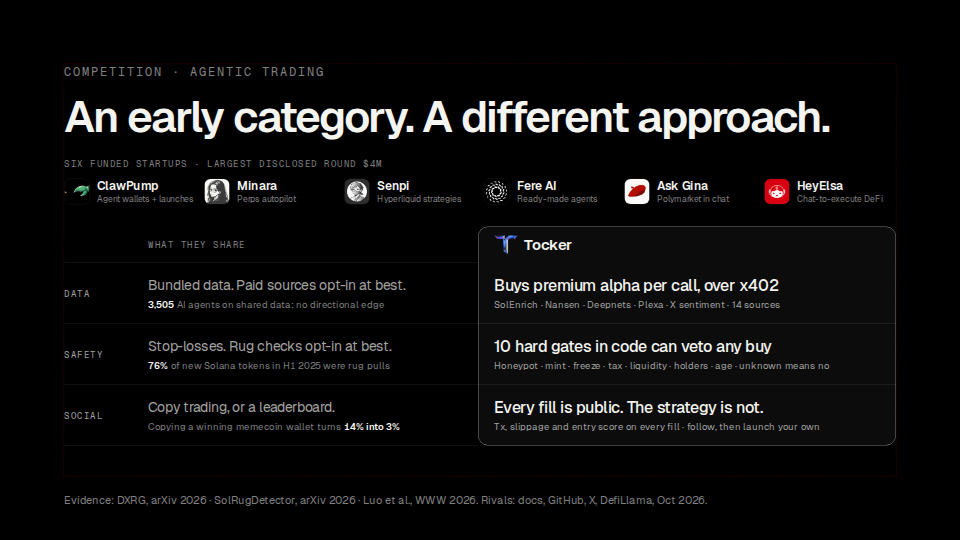
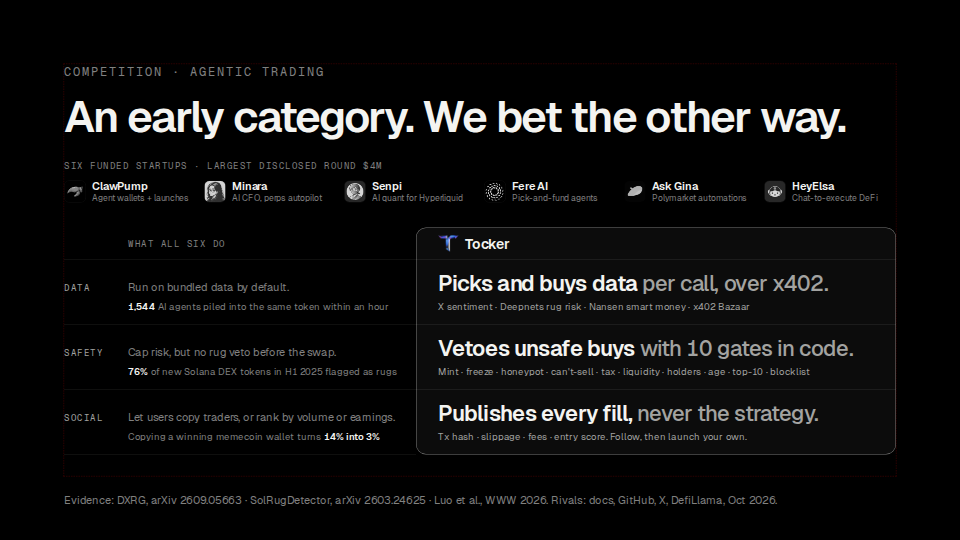
docs(pitch): competition slide polished by copy, design and critic passes
Verb-led Tocker lines (picks and buys data, vetoes unsafe buys, publishes
every fill), a 'what all six do' column with dated evidence, greyscale
rival logos so Tocker's mark is the only colour, and the full ten gates
named. Critic fixes: no 'unknown means no', no 'rank them' (Tocker ranks
too), 'no rug veto before the swap' (Fere floors), DXRG herding stat.

Claude-Session: https://claude.ai/code/session_01C63X7bmiYFRUvieQLSha7b

diff --git a/docs/pitch/deck/build_competition.py b/docs/pitch/deck/build_competition.py
@@ -1,48 +1,53 @@
-"""Tocker competition slide, minimal: the field in one strip, then what they share vs what Tocker does.
-Run: python3 -I gen.py [out.html]  ->  refine/design/cmp10.html
-All copy lives in DATA. Every "field" line must hold for all six rivals (research/26-competitors-deep/README.md).
+"""Tocker competition slide, variant B ("accentuate"): the field in one tight strip, then three bands where
+what the rivals share is set quiet on the left and Tocker's difference is the hero on the right.
+Run: python3 -I gen.py [out.html]  ->  refine/design/cmp-m.html
+All copy lives in DATA. Every "they share" line must hold for all six rivals (research/26-competitors-deep/README.md).
 """
 import html
 import sys
 
 OUT = sys.argv[1] if len(sys.argv) > 1 else \
-    "/tmp/claude-0/-home-user-tocker/2b3bef34-45cf-5fd0-a239-6cda5647963e/scratchpad/refine/design/cmp10.html"
+    "/tmp/claude-0/-home-user-tocker/2b3bef34-45cf-5fd0-a239-6cda5647963e/scratchpad/refine/design/cmp-m.html"
 
 DATA = {
     "eyebrow": "Competition · Agentic trading",
-    "headline": "An early category. A different approach.",
+    # Founder's original, kept as an option: "An early category. A different approach."
+    "headline": "An early category. We bet the other way.",
     "field_label": "Six funded startups · largest disclosed round $4M",
     "field": [
-        ("ClawPump", "/_blob/606b63ec1779ee82e35148ef101e17ed", "Agent wallets + launches"),
-        ("Minara", "/_blob/03acbe489e6ea92d8d145a181c9dfa84", "Perps autopilot"),
-        ("Senpi", "/_blob/ca68c6e24dedbf9baa8b126a87b00a6b", "Hyperliquid strategies"),
-        ("Fere AI", "/_blob/3f187fc91f8eb98029cad57c307f6fec", "Ready-made agents"),
-        ("Ask Gina", "/_blob/dea59d96bd66d04b62a83f5f399fbaa9", "Polymarket in chat"),
+        ("ClawPump", "/_blob/0bc2d38756d41a19b0f4b42cae97ee97", "Agent wallets + launches"),
+        ("Minara", "/_blob/03acbe489e6ea92d8d145a181c9dfa84", "AI CFO, perps autopilot"),
+        ("Senpi", "/_blob/ca68c6e24dedbf9baa8b126a87b00a6b", "AI quant for Hyperliquid"),
+        ("Fere AI", "/_blob/3f187fc91f8eb98029cad57c307f6fec", "Pick-and-fund agents"),
+        ("Ask Gina", "/_blob/dea59d96bd66d04b62a83f5f399fbaa9", "Polymarket automations", "invert"),
         ("HeyElsa", "/_blob/392c3ee86a193e8a1796ae2fe53d5a5b", "Chat-to-execute DeFi"),
     ],
-    "they_title": "What they share",
+    "they_title": "What all six do",
     "tocker_logo": "/_blob/41da4bfef67a2f6a83cfa7cf3015ecf2",
-    # (label, what all six share, evidence (pre, number, post), what Tocker does, proof line)
+    # (label, what all six do, evidence (pre, number, post), Tocker lead, Tocker rest, proof line)
+    # Facts: 14 x402 registry entries from 12 providers plus Bazaar (any listed x402 API); 10 hard gates in
+    # src/lib/tokens/score.ts (unknown blocks for mint, freeze, liquidity, holders, age, top-10 only, so the
+    # slide does not claim "unknown means no"); public receipts per SPEC trade_receipts.
     "rows": [
-        ("Data", "Bundled data. Paid sources opt-in at best.",
-         ("", "3,505", " AI agents on shared data: no directional edge"),
-         "Buys premium alpha per call, over x402",
-         "SolEnrich · Nansen · Deepnets · Plexa · X sentiment · 14 sources"),
-        ("Safety", "Stop-losses. Rug checks opt-in at best.",
-         ("", "76%", " of new Solana tokens in H1 2025 were rug pulls"),
-         "10 hard gates in code can veto any buy",
-         "Honeypot · mint · freeze · tax · liquidity · holders · age · unknown means no"),
-        ("Social", "Copy trading, or a leaderboard.",
+        ("Data", "Run on bundled data by default.",
+         ("", "1,544", " AI agents piled into the same token within an hour"),
+         "Picks and buys data", " per call, over x402.",
+         "X sentiment · Deepnets rug risk · Nansen smart money · x402 Bazaar"),
+        ("Safety", "Cap risk, but no rug veto before the swap.",
+         ("", "76%", " of new Solana DEX tokens in H1 2025 flagged as rugs"),
+         "Vetoes unsafe buys", " with 10 gates in code.",
+         "Mint · freeze · honeypot · can't-sell · tax · liquidity · holders · age · top-10 · blocklist"),
+        ("Social", "Let users copy traders, or rank by volume or earnings.",
          ("Copying a winning memecoin wallet turns ", "14% into 3%", ""),
-         "Every fill is public. The strategy is not.",
-         "Tx, slippage and entry score on every fill · follow, then launch your own"),
+         "Publishes every fill,", " never the strategy.",
+         "Tx hash · slippage · fees · entry score. Follow, then launch your own."),
     ],
-    "foot": ("Evidence: DXRG, arXiv 2026 · SolRugDetector, arXiv 2026 · Luo et al., WWW 2026. "
+    "foot": ("Evidence: DXRG, arXiv 2609.05663 · SolRugDetector, arXiv 2603.24625 · Luo et al., WWW 2026. "
              "Rivals: docs, GitHub, X, DefiLlama, Oct 2026."),
     "note": ("Agentic trading is early: six funded startups, the largest disclosed round four million. "
-             "What they share is bundled data, stop-losses and copy trading, and the evidence is against all three. "
-             "So the agent buys alpha per call, ten gates in code can veto any buy, and every fill is public "
-             "while the strategy stays private."),
+             "Good teams, with three shared defaults: bundled data, no rug veto before the swap, and copy trading "
+             "or volume leaderboards. We bet the other way. Our agent picks and buys data per call, ten gates in "
+             "code can veto any buy, and every fill is public."),
 }
 
 MONO = "font-family:'Geist Mono', 'Courier New', monospace"
@@ -51,11 +56,13 @@ FG, MID, DIM = "#f4f4f1", "#a3a3a1", "#818180"
 HAIR = "rgba(244,244,241,0.12)"
 TOCKER_AR = 2984 / 2472
 
-LABEL_W = 168
-THEY_W = 660
-TOCK_W = 1664 - LABEL_W - THEY_W     # 836
-ROW_H = 122
-TILE = 52
+LABEL_W = 128
+THEY_W = 576
+BOX_W = 1664 - LABEL_W - THEY_W     # 960
+BOX_PAD = 44
+HEAD_H = 64
+ROW_H = 130
+TILE = 44
 
 
 def esc(t):
@@ -69,53 +76,58 @@ def mono(t, color=DIM, size=18, extra=""):
 
 def field_strip():
     tiles = ""
-    for name, logo, best in DATA["field"]:
-        tiles += (f'<div style="flex:1 1 0;min-width:0;display:flex;flex-direction:row;align-items:center;gap:14px">'
-                  f'<img src="{logo}" alt="{esc(name)} logo" style="width:{TILE}px;height:{TILE}px;border-radius:13px;'
-                  f'border:1px solid {HAIR};object-fit:cover;flex:none">'
-                  f'<div style="display:flex;flex-direction:column;gap:2px;min-width:0">'
-                  f'<p style="font-size:24px;font-weight:600;letter-spacing:-0.3px;line-height:1.15;color:{FG};white-space:nowrap">{esc(name)}</p>'
+    for name, logo, best, *opt in DATA["field"]:
+        filt = "grayscale(1) invert(1)" if "invert" in opt else "grayscale(1)"
+        tiles += (f'<div style="flex:1 1 0;min-width:0;display:flex;flex-direction:row;align-items:center;gap:12px">'
+                  f'<img src="{logo}" alt="{esc(name)} logo" style="width:{TILE}px;height:{TILE}px;border-radius:11px;'
+                  f'border:1px solid {HAIR};object-fit:cover;flex:none;filter:{filt};opacity:0.85">'
+                  f'<div style="display:flex;flex-direction:column;gap:1px;min-width:0">'
+                  f'<p style="font-size:22px;font-weight:600;letter-spacing:-0.3px;line-height:1.15;color:{FG};white-space:nowrap">{esc(name)}</p>'
                   f'<p style="font-size:17px;line-height:1.25;color:{DIM};white-space:nowrap">{esc(best)}</p></div></div>')
-    return (f'<div style="display:flex;flex-direction:column;gap:18px">'
+    return (f'<div style="display:flex;flex-direction:column;gap:16px">'
             f'{mono(DATA["field_label"])}'
             f'<div style="display:flex;flex-direction:row;gap:16px">{tiles}</div></div>')
 
 
 def compare():
-    # header
-    head = (f'<div style="display:flex;flex-direction:row;align-items:center;height:72px">'
+    left_w = LABEL_W + THEY_W
+    head = (f'<div style="display:flex;flex-direction:row;align-items:center;height:{HEAD_H}px">'
             f'<div style="width:{LABEL_W}px;flex:none"></div>'
             f'<div style="width:{THEY_W}px;flex:none">{mono(DATA["they_title"])}</div>'
-            f'<div style="width:{TOCK_W}px;flex:none;display:flex;flex-direction:row;align-items:center;gap:12px;'
-            f'padding:0 32px">'
-            f'<img src="{DATA["tocker_logo"]}" alt="Tocker T mark" style="width:{round(40 * TOCKER_AR)}px;height:40px;object-fit:contain">'
-            f'<p style="font-size:30px;font-weight:600;letter-spacing:-0.5px;line-height:1;color:{FG}">Tocker</p></div></div>')
+            f'<div style="width:{BOX_W}px;flex:none;display:flex;flex-direction:row;align-items:center;gap:12px;padding:0 {BOX_PAD}px">'
+            f'<img src="{DATA["tocker_logo"]}" alt="Tocker T mark" style="width:{round(34 * TOCKER_AR)}px;height:34px;object-fit:contain">'
+            f'<p style="font-size:28px;font-weight:600;letter-spacing:-0.5px;line-height:1;color:{FG}">Tocker</p></div></div>')
     rows = ""
-    for i, (label, they, ev, us, proof) in enumerate(DATA["rows"]):
+    tock_l = left_w + BOX_PAD
+    for i, (label, they, ev, lead, cont, proof) in enumerate(DATA["rows"]):
         pre, num, post = ev
-        ev_html = (f'<p style="font-size:19px;line-height:1.25;color:{DIM};white-space:nowrap;font-variant-numeric:tabular-nums">'
-                   f'{esc(pre)}<span style="color:{FG};font-weight:600">{esc(num)}</span>{esc(post)}</p>')
-        top = f"border-top:1px solid {HAIR};"
-        rows += (f'<div style="display:flex;flex-direction:row;align-items:stretch;height:{ROW_H}px">'
-                 f'<div style="width:{LABEL_W}px;flex:none;display:flex;align-items:center;{top}">{mono(label, MID)}</div>'
-                 f'<div style="width:{THEY_W}px;flex:none;display:flex;flex-direction:column;justify-content:center;gap:10px;padding-right:32px;{top}">'
-                 f'<p style="font-size:28px;line-height:1.2;letter-spacing:-0.3px;color:{MID};white-space:nowrap">{esc(they)}</p>{ev_html}</div>'
-                 f'<div style="width:{TOCK_W}px;flex:none;display:flex;flex-direction:column;justify-content:center;gap:8px;'
-                 f'padding:0 32px;{"border-top:1px solid rgba(244,244,241,0.14);" if i else ""}">'
-                 f'<p style="font-size:32px;line-height:1.2;letter-spacing:-0.5px;font-weight:500;color:{FG};white-space:nowrap">{esc(us)}</p>'
-                 f'<p style="font-size:19px;line-height:1.25;color:{MID};white-space:nowrap">{esc(proof)}</p></div></div>')
-    # Tocker column highlight: absolutely positioned box behind the right column (header + rows)
-    box_h = 72 + ROW_H * len(DATA["rows"])
-    hl = (f'<div style="position:absolute;left:{LABEL_W + THEY_W}px;top:0px;width:{TOCK_W}px;height:{box_h}px;'
+        small = f"font-size:19px;line-height:1.3;white-space:nowrap;font-variant-numeric:tabular-nums"
+        # two baseline-aligned lines per band: statement line, then evidence/proof line
+        line1 = (f'<div style="display:flex;flex-direction:row;align-items:baseline">'
+                 f'<div style="width:{LABEL_W}px;flex:none">{mono(label, MID)}</div>'
+                 f'<p style="width:{THEY_W}px;flex:none;font-size:22px;line-height:1.25;letter-spacing:-0.2px;color:{DIM};white-space:nowrap">{esc(they)}</p>'
+                 f'<p style="padding-left:{BOX_PAD}px;font-size:44px;line-height:1.1;letter-spacing:-1.4px;font-weight:600;color:{FG};white-space:nowrap;'
+                 f'font-variant-numeric:tabular-nums">{esc(lead)}<span style="color:{MID};font-weight:500">{esc(cont)}</span></p></div>')
+        line2 = (f'<div style="display:flex;flex-direction:row;align-items:baseline">'
+                 f'<div style="width:{LABEL_W}px;flex:none"></div>'
+                 f'<p style="width:{THEY_W}px;flex:none;{small};color:{DIM}">'
+                 f'{esc(pre)}<span style="color:{FG};font-weight:600">{esc(num)}</span>{esc(post)}</p>'
+                 f'<p style="padding-left:{BOX_PAD}px;{small};color:{MID}">{esc(proof)}</p></div>')
+        rule = (f'<div style="position:absolute;left:0px;top:0px;width:{left_w}px;border-top:1px solid {HAIR}"></div>'
+                + f'<div style="position:absolute;left:{left_w}px;top:0px;width:{BOX_W}px;border-top:1px solid rgba(244,244,241,0.14)"></div>')
+        rows += (f'<div style="position:relative;display:flex;flex-direction:column;justify-content:center;gap:10px;height:{ROW_H}px">'
+                 f'{rule}{line1}{line2}</div>')
+    box_h = HEAD_H + ROW_H * len(DATA["rows"])
+    hl = (f'<div style="position:absolute;left:{left_w}px;top:0px;width:{BOX_W}px;height:{box_h}px;'
           f'border:1px solid rgba(244,244,241,0.5);border-radius:20px;background:rgba(244,244,241,0.05)"></div>')
-    end = (f'<div style="display:flex;flex-direction:row"><div style="width:{LABEL_W + THEY_W}px;flex:none;'
+    end = (f'<div style="display:flex;flex-direction:row"><div style="width:{left_w}px;flex:none;'
            f'border-top:1px solid {HAIR}"></div></div>')
     return (f'<div style="position:relative;display:flex;flex-direction:column">{hl}'
             f'<div style="position:relative;display:flex;flex-direction:column">{head}{rows}{end}</div></div>')
 
 
 def build():
-    body = (f'<div style="display:flex;flex-direction:column;gap:44px;margin-top:8px">'
+    body = (f'<div style="display:flex;flex-direction:column;gap:48px;margin-top:12px">'
             f'{field_strip()}{compare()}</div>')
     s = (
         f'<section id="competition" data-transition="fade" style="background:#000000;color:{FG};{SANS};padding:128px 128px 160px;display:flex;flex-direction:column;gap:28px">\n'

diff --git a/docs/pitch/pitch-3min.md b/docs/pitch/pitch-3min.md
@@ -1,7 +1,7 @@
 # Tocker — 3-minute pitch (short deck, v5)
 
 ~483 words, about 3:05 at 155 wpm. Sam is an illustrative composite, not a real user. [pause] marks a beat.
-Reviewed over four rounds by VC-partner, design and code-level fact-check critics (Oct 7, 2026). Competition: 'An early category. A different approach.' Minimal: a strip of the six rivals (logo + best at), then what all six share vs what Tocker does (data, safety, social). Every 'share' line holds for all six (research/26-competitors-deep). The previous full table is in docs/pitch/deck/competition-angles/table_v9.png. Alternative angles in docs/pitch/deck/competition-angles/.
+Reviewed over four rounds by VC-partner, design and code-level fact-check critics (Oct 7, 2026). Competition: 'An early category. We bet the other way.' (fallback: 'A different approach.'). Rival strip, then what all six do vs Tocker (data, safety, social), each with dated evidence. Copy, two design variants and a VC/fact critic merged on Oct 8, 2026 (research/26-competitors-deep). Earlier full table: docs/pitch/deck/competition-angles/table_v9.png. Alternative angles in docs/pitch/deck/competition-angles/.
 
 ## cover
 Three a.m. A trader, call her Sam, sees a new token trending. She buys. Minutes later, it's worth nothing. The wallets that bought first? Insiders. [pause] Sam isn't dumb. She's outgunned. I'm Rami, and this is Tocker: the infrastructure for agentic trading.
@@ -22,7 +22,7 @@ Can AI even trade? Last October, six frontier models traded real money; four los
 Traders already pay. In 2025, Solana traders paid one point seven billion dollars in fees, nine hundred forty million of it to bots at one percent a trade. That's our lane. We plan to charge zero point two percent: twenty cents on a hundred dollars.
 
 ## competition
-Agentic trading is early: six funded startups, the largest disclosed round four million. What they share is bundled data, stop-losses and copy trading, and the evidence is against all three. So the agent buys alpha per call, ten gates in code can veto any buy, and every fill is public while the strategy stays private.
+Agentic trading is early: six funded startups, the largest disclosed round four million. Good teams, with three shared defaults: bundled data, no rug veto before the swap, and copy trading or volume leaderboards. We bet the other way. Our agent picks and buys data per call, ten gates in code can veto any buy, and every fill is public.
 
 ## gtm
 Every agent trades in public, so every trade markets itself. Each post shows the fill and its entry score, never the strategy. Followers launch their own; next, creators earn a fee share. Today that's memecoins, five billion dollars a week on Solana at the August peak. Next Polymarket, then tokenized stocks.
@@ -52,7 +52,7 @@ Tocker is in private beta on Solana and Base. [pause] Back to Sam. Same token. S
 - $5.8B Solana tokenized-stock volume, Q2 2026: SolanaCompass — research/14
 - Competition cells, traction and funding — research/26-competitors-deep (Oct 8 2026; supersedes 22 and 25)
 - Competition evidence (research/26-competitors-deep/proof-points.md):
-  - DXRG (Barton et al., arXiv 2609.05663, Sep 2026): 3,505 user-funded AI agents on a shared 12-token Base market, 21 days; "neither fleet shows a directional edge".
+  - DXRG (Barton et al., arXiv 2609.05663, Sep 2026): 3,505 user-funded AI agents on a shared 12-token Base market, 21 days. Herding: 1,544 of 3,454 active vaults bought the same token (FEET) within one hour on Mar 1; "neither fleet shows a directional edge".
   - SolRugDetector (Chen, Zheng et al., arXiv 2603.24625, Mar 2026): 76,469 of 100,063 new Solana DEX tokens in H1 2025 (76%) were labelled rug pulls.
   - Luo et al. (WWW 2026, arXiv 2601.08641): smart-money memecoin wallets averaged 14%; copiers about 3% after price impact.
 
@@ -68,8 +68,10 @@ Tocker is in private beta on Solana and Base. [pause] Back to Sam. Same token. S
 9. **"Private beta next to $2.6B of volume: why a Series A?"** Rivals' volume proves demand for agents that trade. None we found vetoes a buy on token-safety checks in code, and that is where retail loses money (research/02). Bring beta numbers: agents live, fills, and the share of candidate buys the gates vetoed.
 10. **"Can I copy an agent?"** No, by design. Copying front-runs the leader and leaks the strategy. You follow an agent's public fills and launch your own; creator fee share is next.
 11. **"USDC inference: ClawPump and Minara already have it."** Yes, which is why it isn't on the slide as a difference: paying for the model is common (credits at ClawPump, Minara, Senpi, Gina). Today agents run on your own key; per-call USDC inference is next. The edge is data, safety and the public record.
-12. **"DXRG says no information source gave an edge, so why buy data?"** It tested in-house context and research sub-agents, not premium on-chain feeds, in a deliberately hostile market (a 2.3% fee per swap, 12 tokens). The same paper finds that discipline lives in the tool, not the prompt: "the exit discipline that exists lives in the tool". That is our design: paid data feeds a score, and gates and exits live in code.
+12. **"DXRG also says no information source gave an edge, so why buy data?"** It tested in-house context and research sub-agents, not paid on-chain feeds, in a deliberately hostile market (a 2.3% fee per swap, 12 tokens). Its point is that agents on one feed herd: 1,544 piled into one token within an hour. The same paper finds that discipline lives in the tool, not the prompt. That is the design: the agent picks its own data, and gates and exits live in code.
 13. **"76% rugs: whose number?"** SolRugDetector (arXiv, Mar 2026) labelled 76,469 of 100,063 tokens launched on Orca, Raydium and Meteora in H1 2025. Each study defines rugs differently, so don't add it to Solidus's 98.6% (liquidity collapse) or call either "scams".
+14. **"Can the owner switch gates off?"** Some, yes: 7 of the 10 are on by default and owner-configurable (src/lib/agent/config.ts). Mint, freeze, liquidity, holders, age and top-10 also block when the data is unknown; honeypot, can't-sell and tax pass when it's missing. Don't say "unknown means no" for all ten.
+15. **"You have a leaderboard too."** Yes, ranked by PnL with the score at entry. The difference is no copy trading and a private strategy, not the absence of ranking.
 
 ## Know the field (keep off the slide)
 - Senpi's public GitHub has a "volume generation engine" built for $5M a day of BTC round-trips (Apr 2026). It is unclear whether it ran, so treat its $411M as possibly inflated. Its Agents Arena was retired Jul–Aug 2026.
